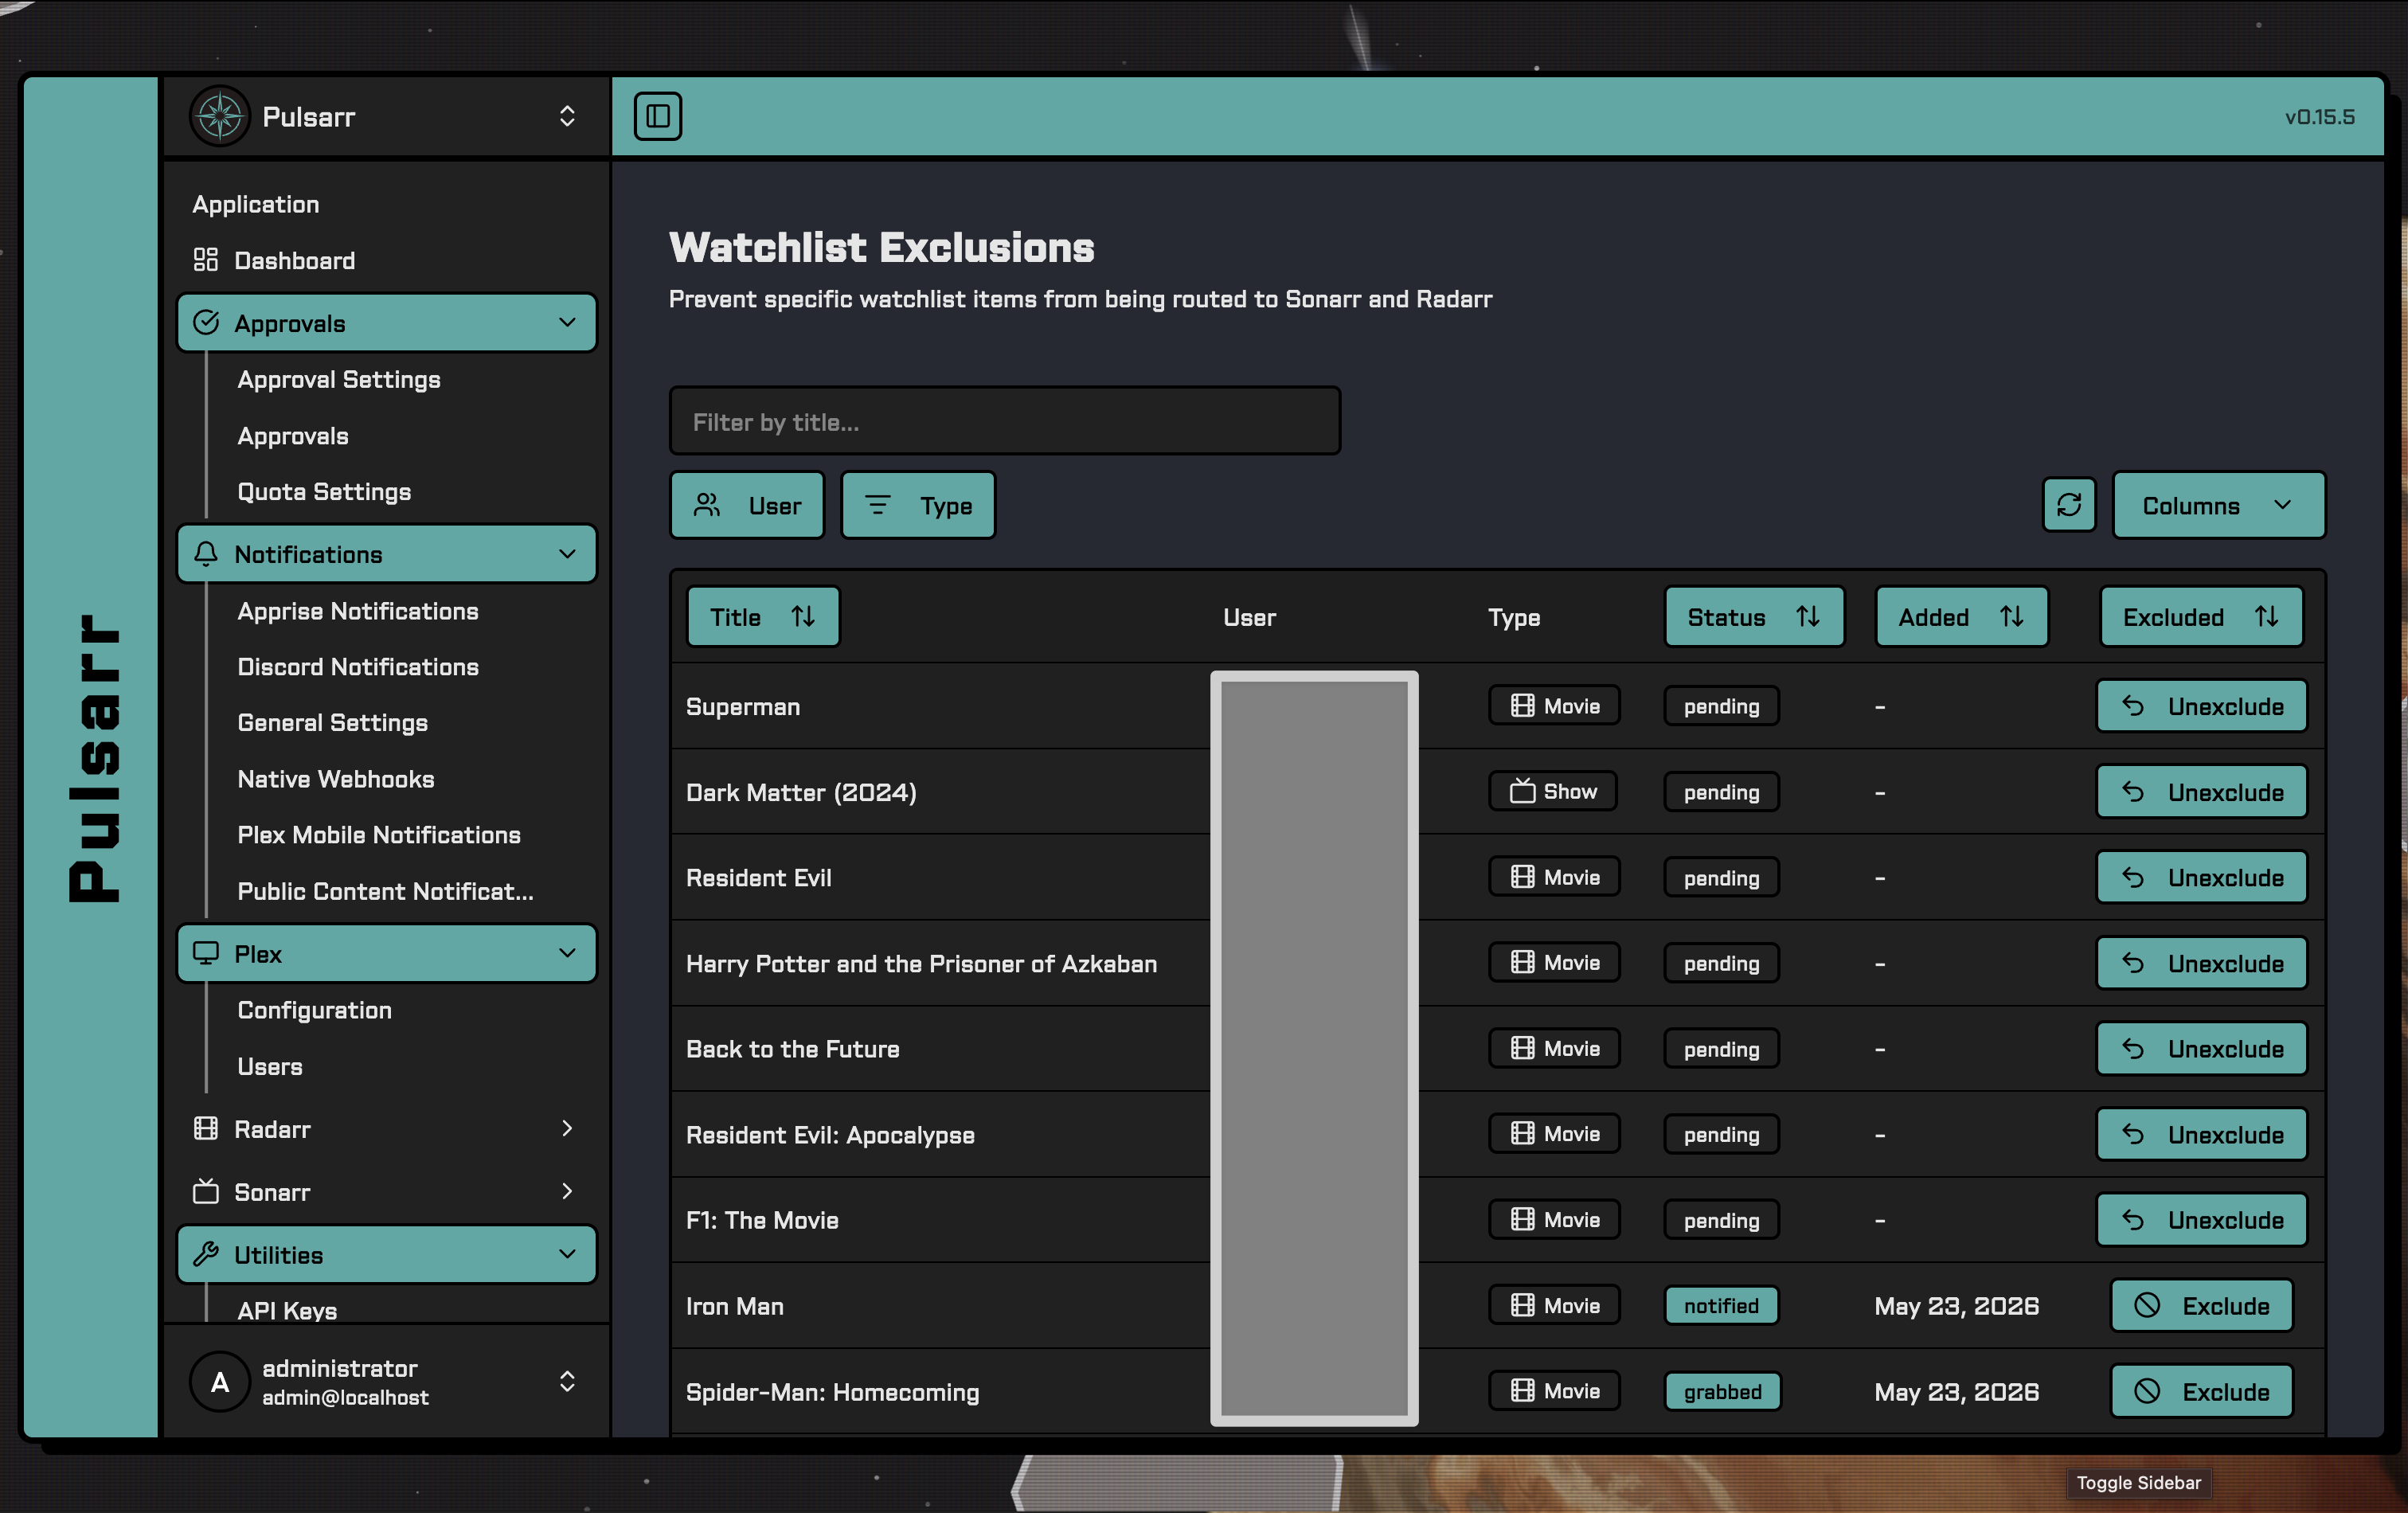
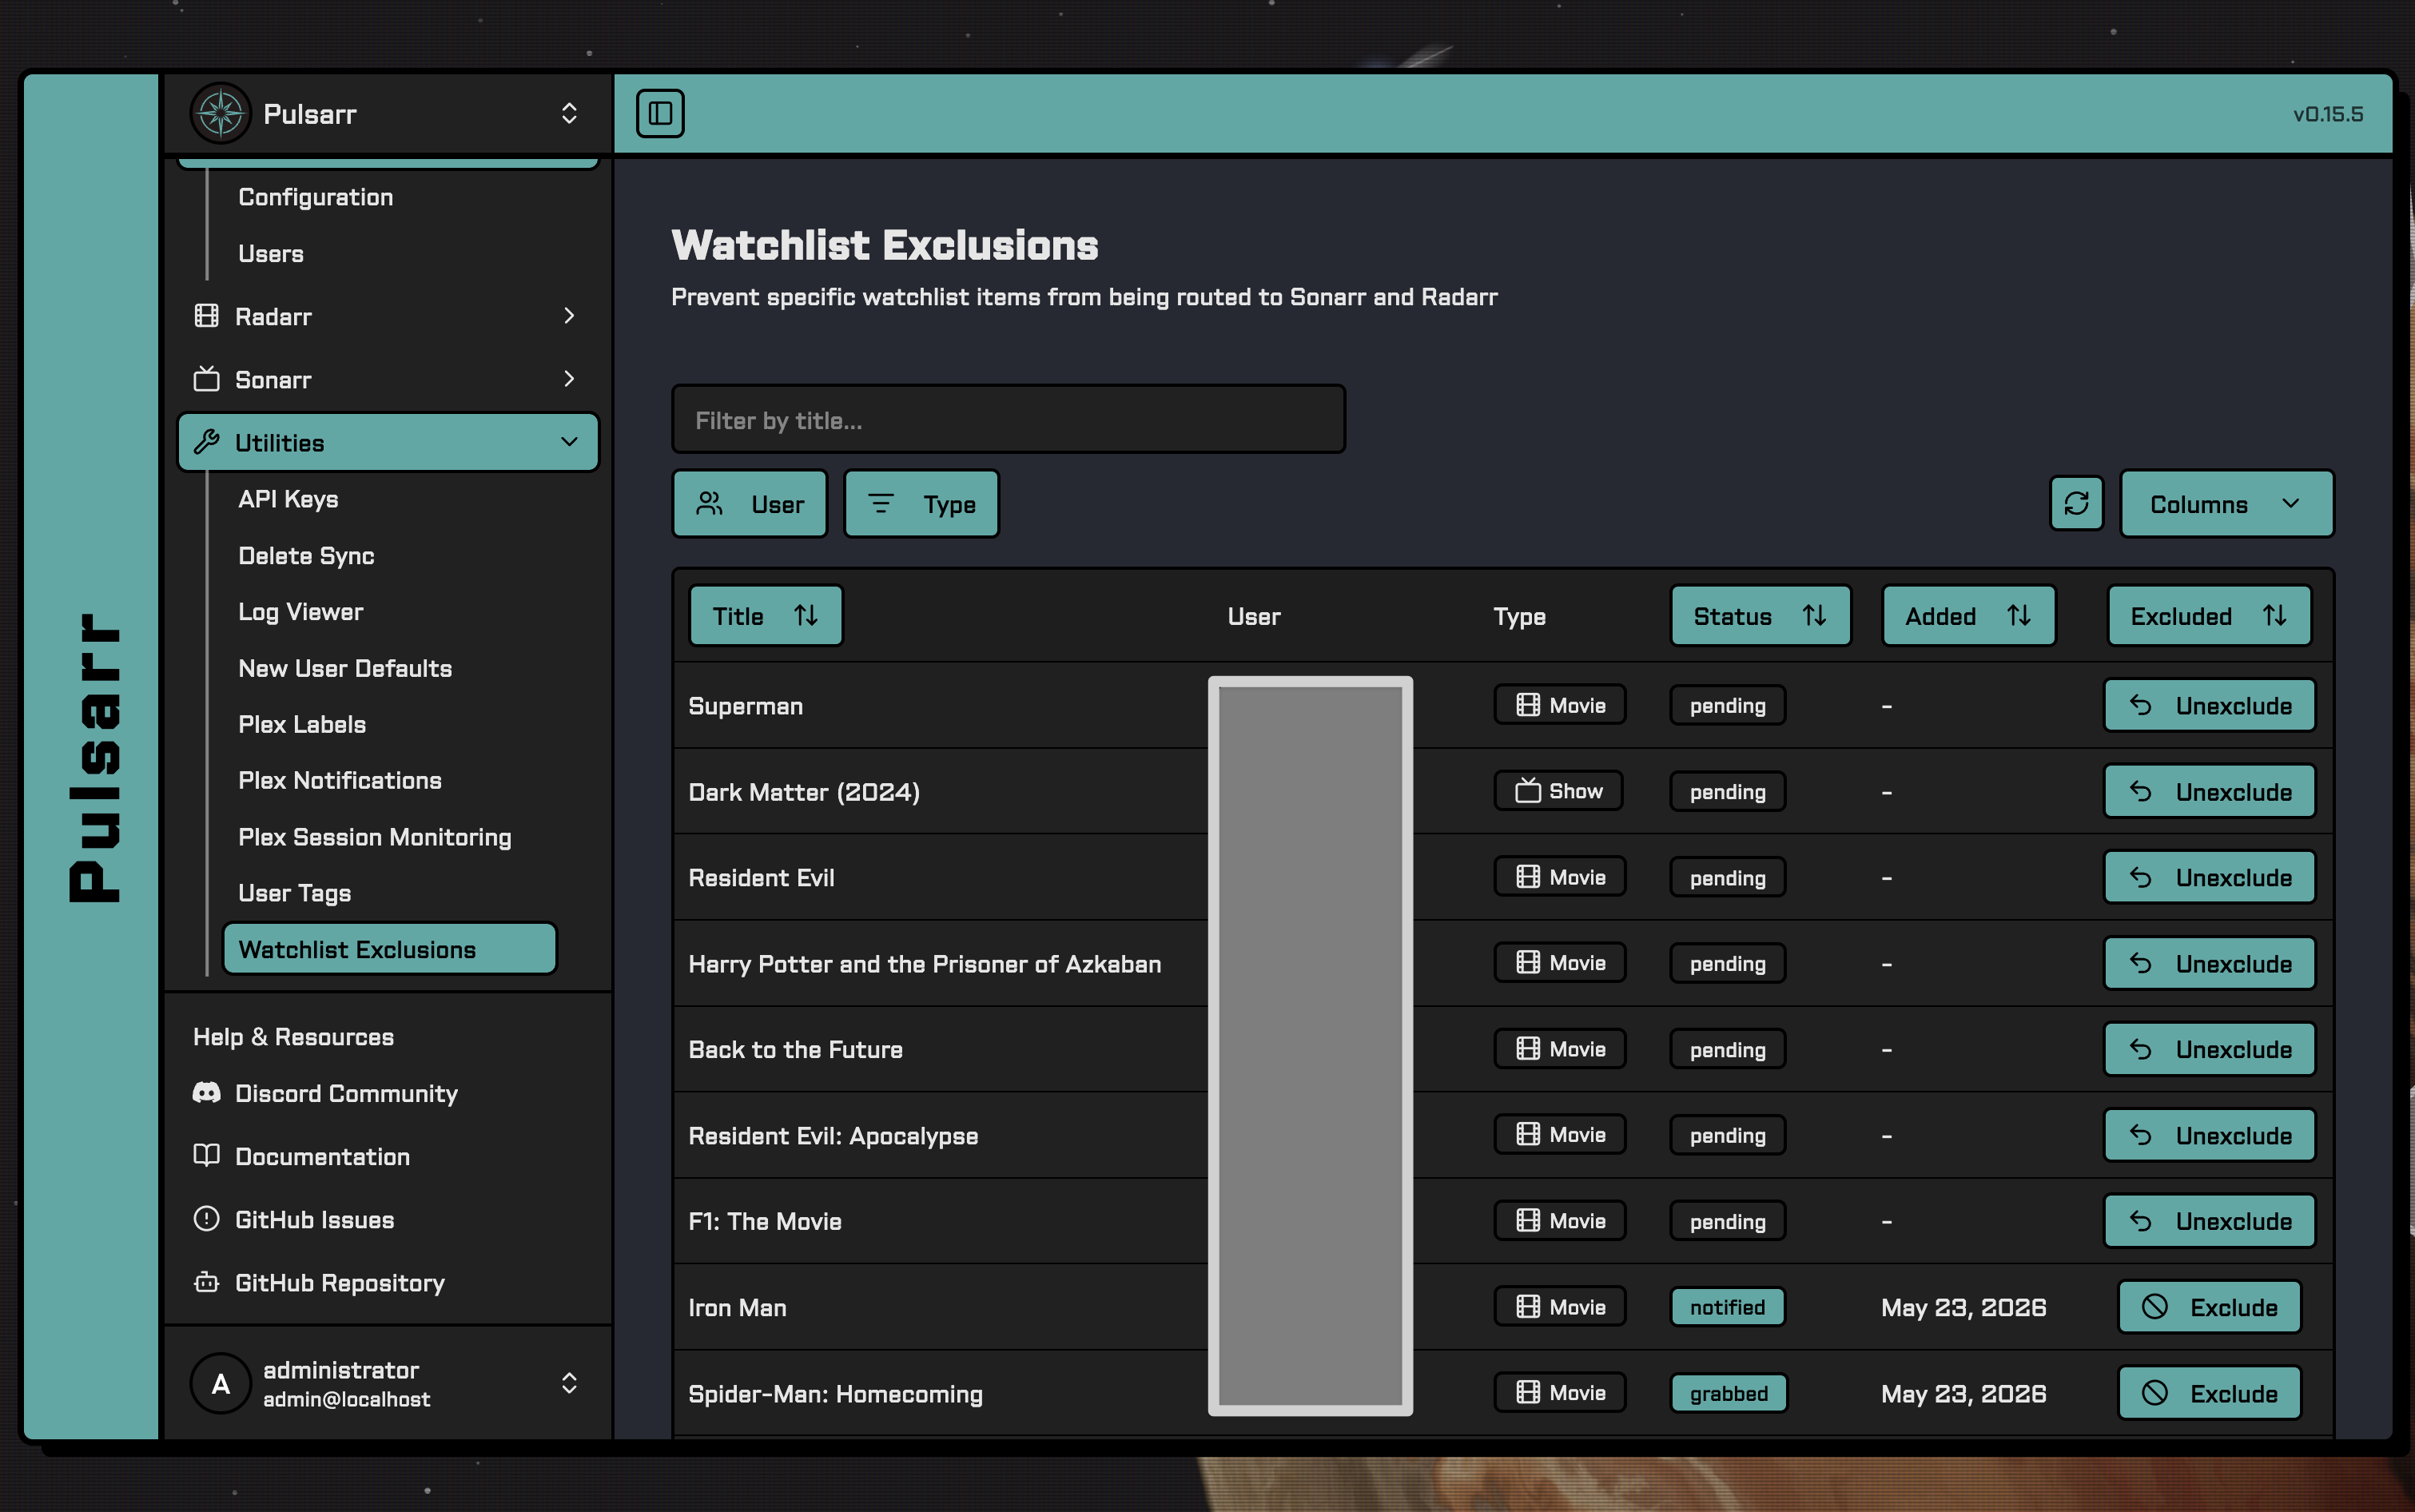
chore(watchlist-exclusions): alphabetize sidebar entry and refresh screenshot
The Utilities sidebar list is alphabetical; "Watchlist Exclusions" was
still in the slot the old "Exclusions" name belonged to (between Delete
Sync and Log Viewer). Move it to the end after User Tags so the list
sorts correctly again, and refresh the docs screenshot to reflect the
new position.

diff --git a/src/client/components/AppSidebar.tsx b/src/client/components/AppSidebar.tsx
@@ -177,10 +177,6 @@ const data = {
           url: '/utilities/delete-sync',
         },
         {
-          title: 'Watchlist Exclusions',
-          url: '/utilities/watchlist-exclusions',
-        },
-        {
           title: 'Log Viewer',
           url: '/utilities/log-viewer',
         },
@@ -203,6 +199,10 @@ const data = {
         {
           title: 'User Tags',
           url: '/utilities/user-tags',
+        },
+        {
+          title: 'Watchlist Exclusions',
+          url: '/utilities/watchlist-exclusions',
         },
       ],
     },